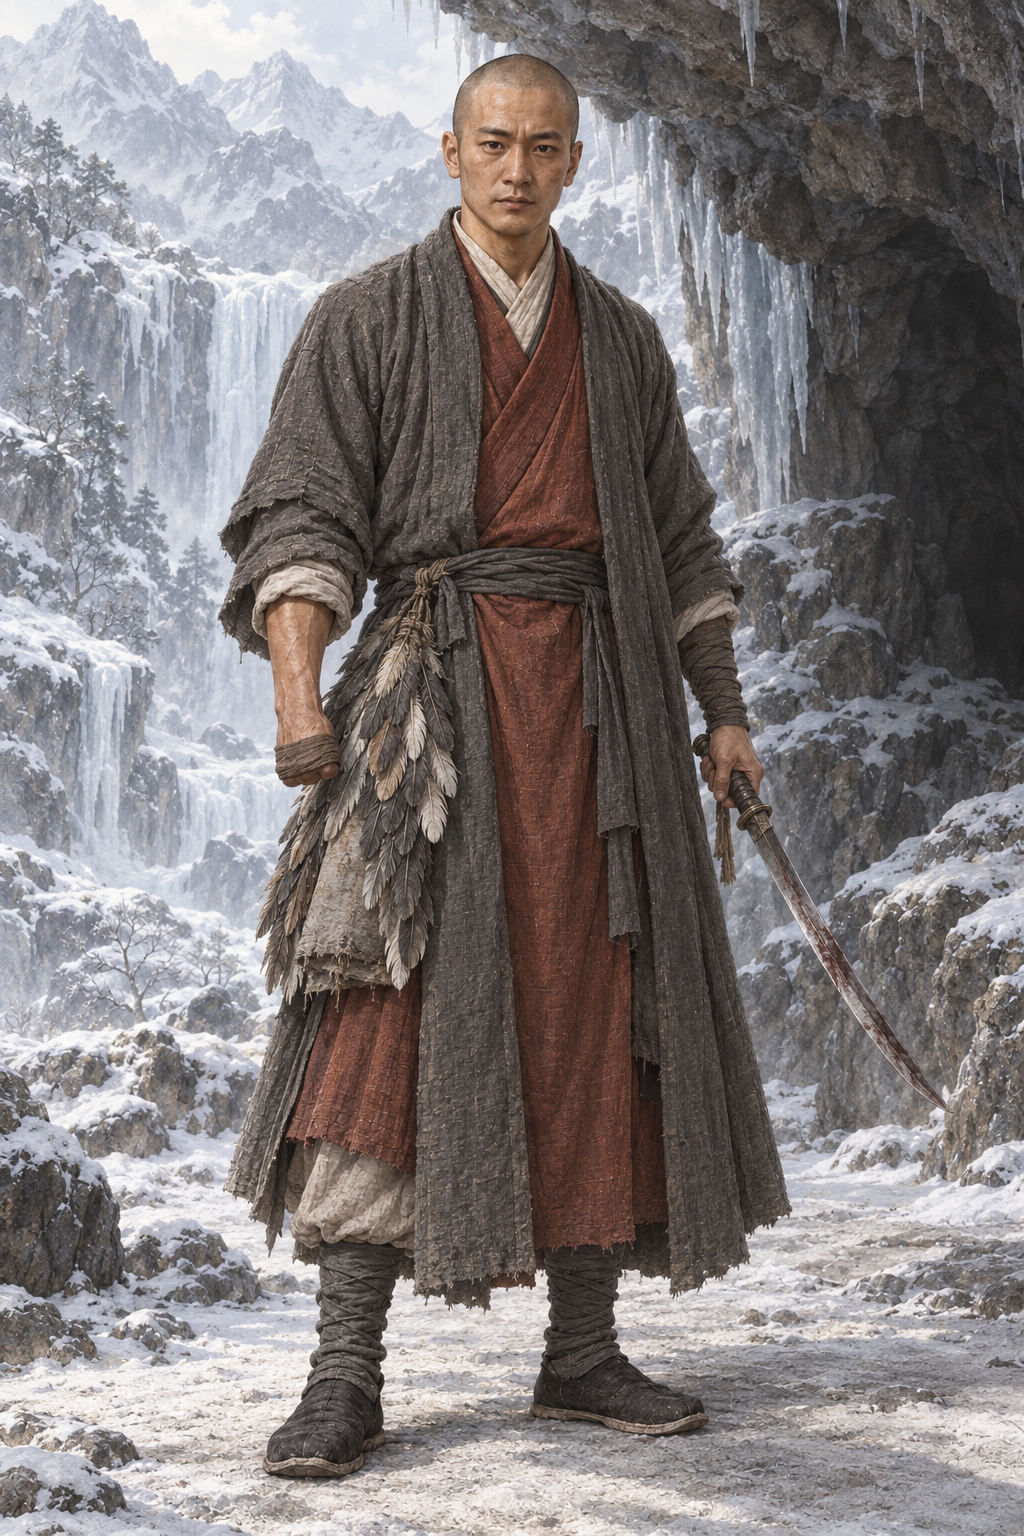
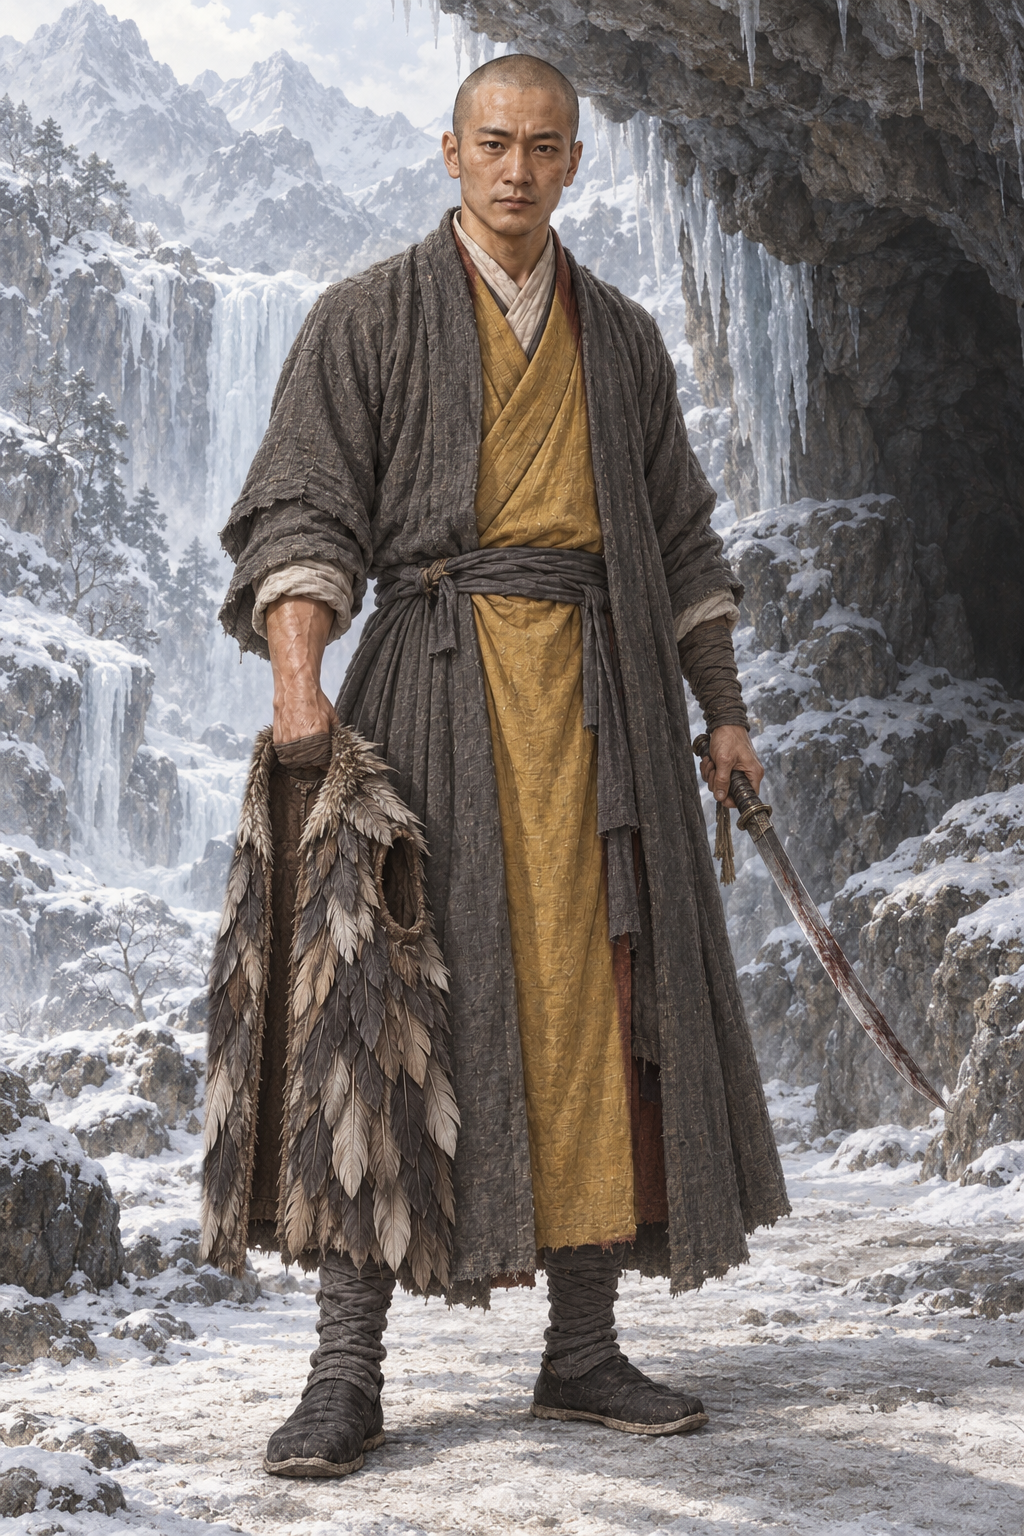
assets: AR-82 原著核对返修 狄云雪谷旧黄僧衣与齐膝羽衣
狄云雪谷旧黄僧衣与齐膝羽衣；原著摘句已同步提示词；蒙版外变化0像素。

Executed-By: Codex gpt-6.1-sol（AR-82）

Changed region(s): [[0.1875, 0.1875, 0.625, 0.8438]]

diff --git a/assets/default/prompts/characters/ch09-liancheng/npc_diyun__scene_snowvalley_feathers.md b/assets/default/prompts/characters/ch09-liancheng/npc_diyun__scene_snowvalley_feathers.md
@@ -34,6 +34,12 @@ size: 1024x1536
 
 # 狄云·雪谷羽衣
 
+## AR-82 当前定稿要求
+
+只改砖红僧衣主色与腰侧羽束：砖红内层改褪旧土黄，来自宝象的旧黄袍，外面灰披与灰布护衣保持。腰旁羽束改为一件可辨领肩、袖孔、两片衣身、长度齐膝的完整鹰毛雁翎羽衣，由狄云画面左侧下垂那只手提起衣领，羽衣在他身旁展开垂下，齐膝、不只是腰饰羽串。狄云本人不穿羽衣，因为他拒穿；原手中单刀、脸、光头、双脚、雪山景全不动。
+
+以上为当前原著核对后的要求，覆盖下文旧版中与之冲突的服饰、器物、伤残、光线和体态描述。
+
 ## Gemini 提示词
 
 ```text
@@ -51,3 +57,9 @@ size: 1024x1536
 
 - 参考分工见实际提示词；配色、姿势、取景及成年化均为（原创扩展）。
 - 本轮结果已逐图目检并入库为 candidate；实际作业与参考哈希见 manifest。
+
+## 原著依据
+
+- 《连城诀》六《血刀老祖》：“身穿黄袍”（https://xuges.com/WUXIA/jinyong/lcj/033.htm）
+- 《连城诀》八《羽衣》：“衣长齐膝”（https://xuges.com/WUXIA/jinyong/lcj/050.htm）
+- AR-82 返修约束：只改砖红僧衣主色与腰侧羽束：砖红内层改褪旧土黄，来自宝象的旧黄袍，外面灰披与灰布护衣保持。腰旁羽束改为一件可辨领肩、袖孔、两片衣身、长度齐膝的完整鹰毛雁翎羽衣，由狄云画面左侧下垂那只手提起衣领，羽衣在他身旁展开垂下，齐膝、不只是腰饰羽串。狄云本人不穿羽衣，因为他拒穿；原手中单刀、脸、光头、双脚、雪山景全不动。
